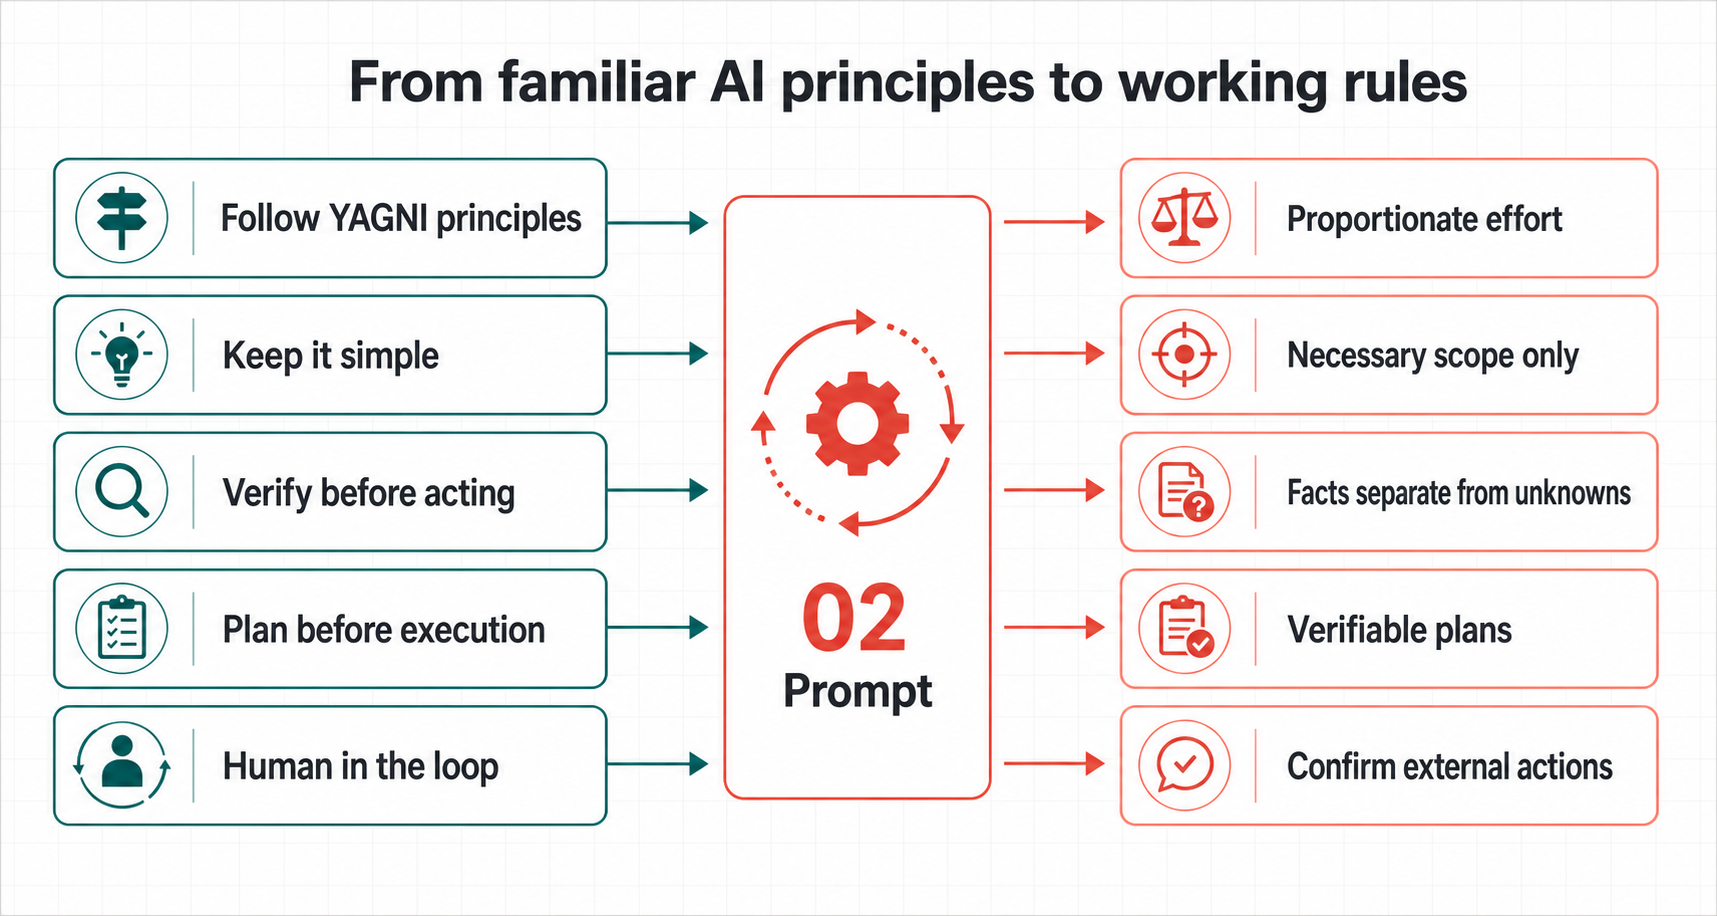
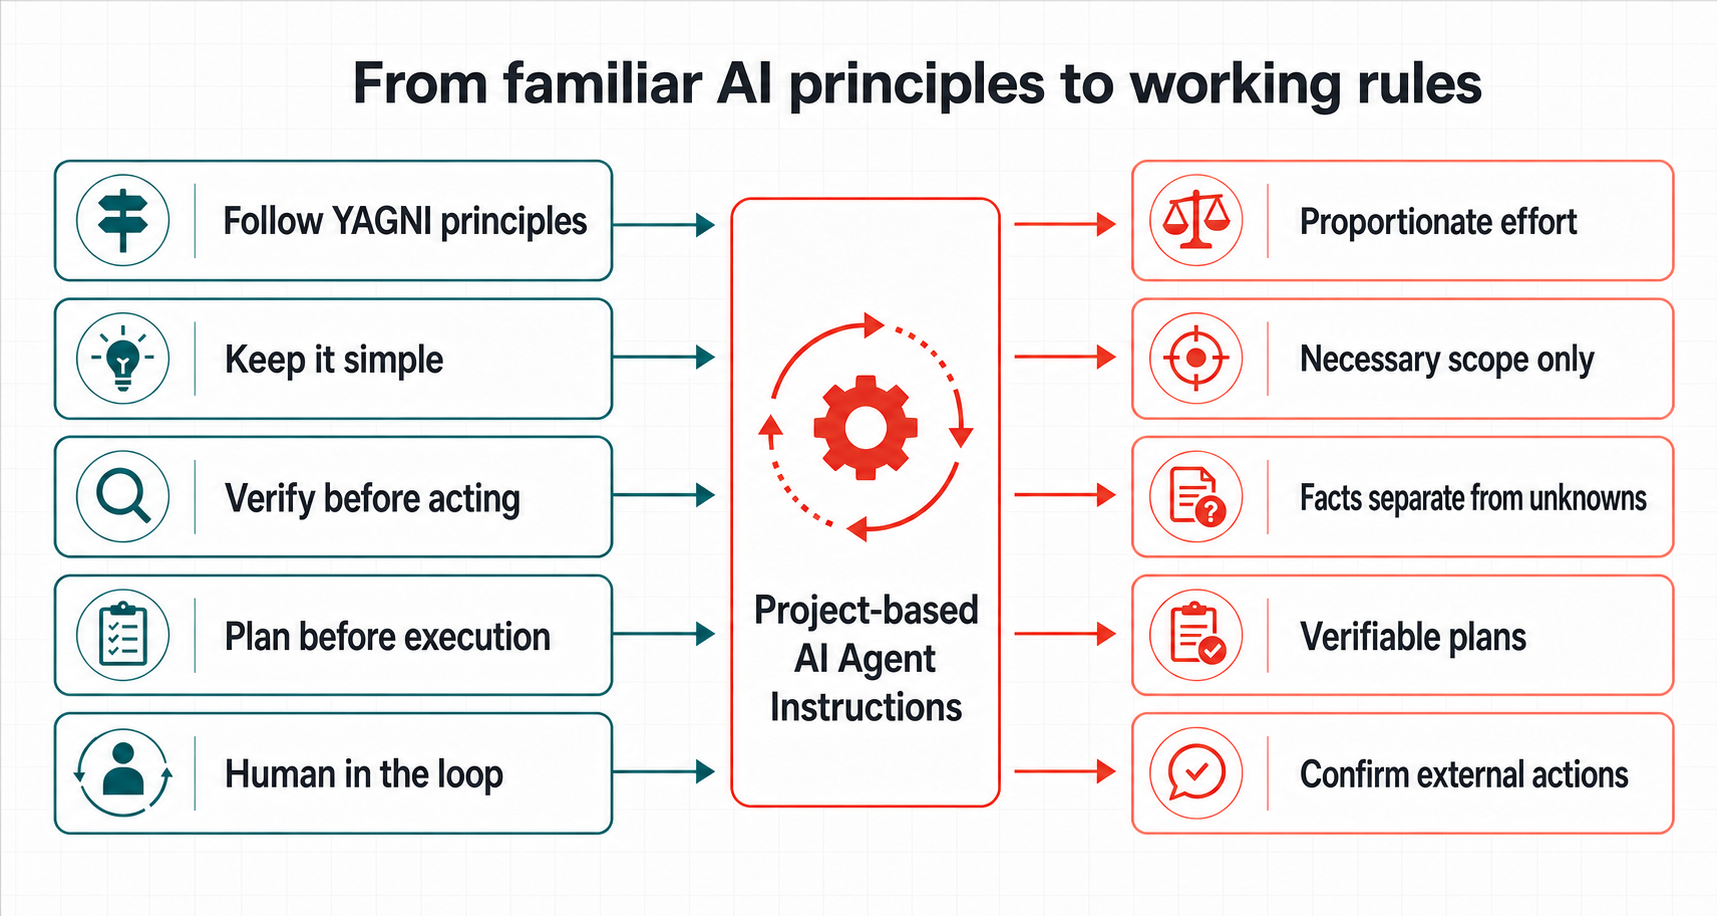
docs: use public instruction name

Changed region(s): [[0.0309, 0.1528, 0.9878, 0.917], [0.1852, 0.0611, 0.8643, 0.1223]]

diff --git a/prompts/02-claude-code-meta-instruction/README.en.md b/prompts/02-claude-code-meta-instruction/README.en.md
@@ -8,13 +8,13 @@ These instructions give that kind of agent a clear way to work. The agent needs 
 
 ## From familiar principles to working rules
 
-![How 02 Prompt turns familiar AI principles into working rules](images/prompt-02-principles-en.png)
+![How familiar AI principles become working rules in Project-based AI Agent Instructions](images/prompt-02-principles-en.png)
 
 This instruction does not provide built-in knowledge of research, code, law, or any industry. It governs how an agent uses the user's request, project files, tools, permissions, and checkable sources.
 
-You may already use `Follow YAGNI principles`, `Keep it simple`, `Verify before acting`, `Plan before execution`, or `Human in the loop`. Those principles are useful, but on their own they usually do not define conditions, stopping points, or exceptions. 02 turns them into working rules:
+You may already use `Follow YAGNI principles`, `Keep it simple`, `Verify before acting`, `Plan before execution`, or `Human in the loop`. Those principles are useful, but on their own they usually do not define conditions, stopping points, or exceptions. These instructions turn them into working rules:
 
-| Familiar prompt direction | What the short phrase leaves open | How 02 makes it operational |
+| Familiar prompt direction | What the short phrase leaves open | How these instructions make it operational |
 |---|---|---|
 | `Follow YAGNI principles` / `Keep it simple` | What can be omitted, and what is still required for this delivery. | Match effort to consequence, uncertainty, and reversibility. Include only issues that block acceptance, were caused by the change, or make the delivery inconsistent. Make the smallest complete related change. |
 | `Verify before acting` | What to verify, and what to do when sources conflict. | Read the source of truth and direct context first. Separate source, date, fact, inference, and what remains unverified. |
@@ -22,7 +22,7 @@ You may already use `Follow YAGNI principles`, `Keep it simple`, `Verify before 
 | `Human in the loop` | What safe work can proceed, and what must stop for approval. | Proceed with authorized, low-risk, reversible, no-side-effect work. Require separate explicit authorization for publishing, deletion, access changes, spending, and other external actions. |
 | `Manage context` | How to avoid long rules, search output, and stale context interfering with each other. | Map the scope with search, indexes, and sampling, then read direct material. Preserve handoff state separately for long-running work. |
 
-These directions align with public guidance from OpenAI, Anthropic, and Google: use direct, structured rules; remove repetition; and keep the high-signal material needed to complete the work. This is not an endorsement of 02 by any of them. 02 integrates public principles with failure modes observed in practical agent work into one usable instruction. References: [OpenAI model guidance](https://developers.openai.com/api/docs/guides/latest-model), [Anthropic context engineering](https://www.anthropic.com/engineering/effective-context-engineering-for-ai-agents), and [Google prompt design strategies](https://ai.google.dev/gemini-api/docs/prompting-strategies).
+These directions align with public guidance from OpenAI, Anthropic, and Google: use direct, structured rules; remove repetition; and keep the high-signal material needed to complete the work. This is not an endorsement of these instructions by any of them. The instruction integrates public principles with failure modes observed in practical agent work into one usable rule set. References: [OpenAI model guidance](https://developers.openai.com/api/docs/guides/latest-model), [Anthropic context engineering](https://www.anthropic.com/engineering/effective-context-engineering-for-ai-agents), and [Google prompt design strategies](https://ai.google.dev/gemini-api/docs/prompting-strategies).
 
 ## What it helps with
 

diff --git a/prompts/02-claude-code-meta-instruction/README.md b/prompts/02-claude-code-meta-instruction/README.md
@@ -8,13 +8,13 @@
 
 ## 從熟悉原則到可執行規則
 
-![常見 AI 原則如何由 02 Prompt 變成可執行規則](images/prompt-02-principles-zh-hant.png)
+![常見 AI 原則如何變成專案式 AI Agent 全域指令的可執行規則](images/prompt-02-principles-zh-hant.png)
 
 這份指令不提供研究、程式、法規或任何行業的內置知識。它規定 Agent 怎樣使用使用者要求、專案檔案、工具、權限和可核對來源。
 
-你可能已見過 `Follow YAGNI principles`、`Keep it simple`、`Verify before acting`、`Plan before execution` 或 `Human in the loop`。這些原則有用，但單獨使用時，往往沒有說明適用條件、停止條件或例外。02 把它們深化成下列工作規則：
+你可能已見過 `Follow YAGNI principles`、`Keep it simple`、`Verify before acting`、`Plan before execution` 或 `Human in the loop`。這些原則有用，但單獨使用時，往往沒有說明適用條件、停止條件或例外。這份指令把它們深化成下列工作規則：
 
-| 熟悉的提示方向 | 單句口號未說清的事 | 02 的落地方式 |
+| 熟悉的提示方向 | 單句口號未說清的事 | 這份指令的落地方式 |
 |---|---|---|
 | `Follow YAGNI principles` / `Keep it simple` | 甚麼可省略，甚麼仍是本次交付必需。 | 按後果、未知與可回復性決定力度；只處理阻礙驗收、由修改造成或令交付矛盾的問題；作最小而完整的相關修改。 |
 | `Verify before acting` | 核實甚麼、來源衝突怎樣處理。 | 先讀真源與直接上下文；區分來源、日期、事實、推論及未核實內容。 |
@@ -22,7 +22,7 @@
 | `Human in the loop` | 哪些安全工作可自主做，哪些操作必須停下。 | 已授權、低風險、可回復、無外部副作用的步驟可直接執行；發布、刪除、權限、費用及其他外部動作另取明確授權。 |
 | `Manage context` | 怎樣避免長規則、搜尋結果和舊脈絡互相干擾。 | 先以搜尋、索引和抽樣建立範圍，再讀直接相關內容；長期工作分開保存交接狀態。 |
 
-這些方向與 OpenAI、Anthropic、Google 的公開建議一致：規則要直接、有結構、避免重複，並保留完成工作所需的高訊號內容。這不是任何一方對 02 的認證；02 是把公開原則與實際 Agent 工作中的失敗模式整合成一份可使用的規則。參考：[OpenAI model guidance](https://developers.openai.com/api/docs/guides/latest-model)、[Anthropic context engineering](https://www.anthropic.com/engineering/effective-context-engineering-for-ai-agents)、[Google prompt design strategies](https://ai.google.dev/gemini-api/docs/prompting-strategies)。
+這些方向與 OpenAI、Anthropic、Google 的公開建議一致：規則要直接、有結構、避免重複，並保留完成工作所需的高訊號內容。這不是任何一方對這份指令的認證；它是把公開原則與實際 Agent 工作中的失敗模式整合成一份可使用的規則。參考：[OpenAI model guidance](https://developers.openai.com/api/docs/guides/latest-model)、[Anthropic context engineering](https://www.anthropic.com/engineering/effective-context-engineering-for-ai-agents)、[Google prompt design strategies](https://ai.google.dev/gemini-api/docs/prompting-strategies)。
 
 ## 它會怎樣幫你
 

diff --git a/README.en.md b/README.en.md
@@ -12,13 +12,13 @@ It is for Claude Code, OpenAI Codex, Cursor, Antigravity, and similar AI agents 
 
 ## From familiar principles to working rules
 
-![How 02 Prompt turns familiar AI principles into working rules](prompts/02-claude-code-meta-instruction/images/prompt-02-principles-en.png)
+![How familiar AI principles become working rules in Project-based AI Agent Instructions](prompts/02-claude-code-meta-instruction/images/prompt-02-principles-en.png)
 
 You may already use `Follow YAGNI principles`, `Keep it simple`, `Verify before acting`, `Plan before execution`, or `Human in the loop`. They point in the right direction, but usually do not say when they apply, when they do not, or how an agent should show that it followed them.
 
-02 does not replace those principles, and it does not claim endorsement by any company or expert. It turns them into rules an agent can judge, carry out, and check:
+Project-based AI Agent Instructions do not replace those principles, and do not claim endorsement by any company or expert. These instructions turn them into rules an agent can judge, carry out, and check:
 
-| Familiar prompt direction | What 02 makes the agent do |
+| Familiar prompt direction | What these instructions make the agent do |
 |---|---|
 | `Follow YAGNI principles` / `Keep it simple` | Match effort to consequence, uncertainty, and reversibility; make the smallest complete necessary change. |
 | `Verify before acting` | Read the source of truth first; separate facts, inferences, and what remains unverified. |
@@ -26,7 +26,7 @@ You may already use `Follow YAGNI principles`, `Keep it simple`, `Verify before 
 | `Human in the loop` | Complete safe local work directly; require separate explicit authorization for pushing, publishing, deletion, access changes, and spending. |
 | `Manage context` | Limit search and reading to the relevant scope, keep high-signal context, and avoid loading long rules or unrelated material together. |
 
-[See the fuller mapping to 02's rules and public guidance](prompts/02-claude-code-meta-instruction/README.en.md#from-familiar-principles-to-working-rules).
+[See the fuller mapping to these instructions and public guidance](prompts/02-claude-code-meta-instruction/README.en.md#from-familiar-principles-to-working-rules).
 
 ## What changes after you install it
 

diff --git a/README.md b/README.md
@@ -12,13 +12,13 @@
 
 ## 從常見原則，到可執行規則
 
-![常見 AI 原則如何由 02 Prompt 變成可執行規則](prompts/02-claude-code-meta-instruction/images/prompt-02-principles-zh-hant.png)
+![常見 AI 原則如何變成專案式 AI Agent 全域指令的可執行規則](prompts/02-claude-code-meta-instruction/images/prompt-02-principles-zh-hant.png)
 
 你可能已見過 `Follow YAGNI principles`、`Keep it simple`、`Verify before acting`、`Plan before execution` 或 `Human in the loop`。它們方向正確，但通常沒有說明：何時適用、何時不能套用，以及 AI 要怎樣證明已做到。
 
-02 不是要取代這些原則，也不聲稱獲任何公司或專家背書。它把它們整理成可判斷、可執行、可驗收的工作規則：
+專案式 AI Agent 全域指令不是要取代這些原則，也不聲稱獲任何公司或專家背書。這份指令把它們整理成可判斷、可執行、可驗收的工作規則：
 
-| 熟悉的提示方向 | 02 令 Agent 實際做到 |
+| 熟悉的提示方向 | 這份指令令 Agent 實際做到 |
 |---|---|
 | `Follow YAGNI principles` / `Keep it simple` | 按後果、未知與可回復性決定力度；只改最小但完整的必要範圍。 |
 | `Verify before acting` | 先讀真源，分開事實、推論與未核實內容。 |
@@ -26,7 +26,7 @@
 | `Human in the loop` | 安全的本地工作可直接完成；推送、發布、刪除、權限與費用等外部動作另取明確授權。 |
 | `Manage context` | 先限制搜尋和閱讀範圍，保留高訊號內容，避免把長規則和無關資料一併塞進脈絡。 |
 
-[查看這些原則如何對照 02 的完整規則與公開來源](prompts/02-claude-code-meta-instruction/README.md#從熟悉原則到可執行規則)。
+[查看這些原則如何對照這份指令的完整規則與公開來源](prompts/02-claude-code-meta-instruction/README.md#從熟悉原則到可執行規則)。
 
 ## 裝上後，你會看到甚麼不同
 
